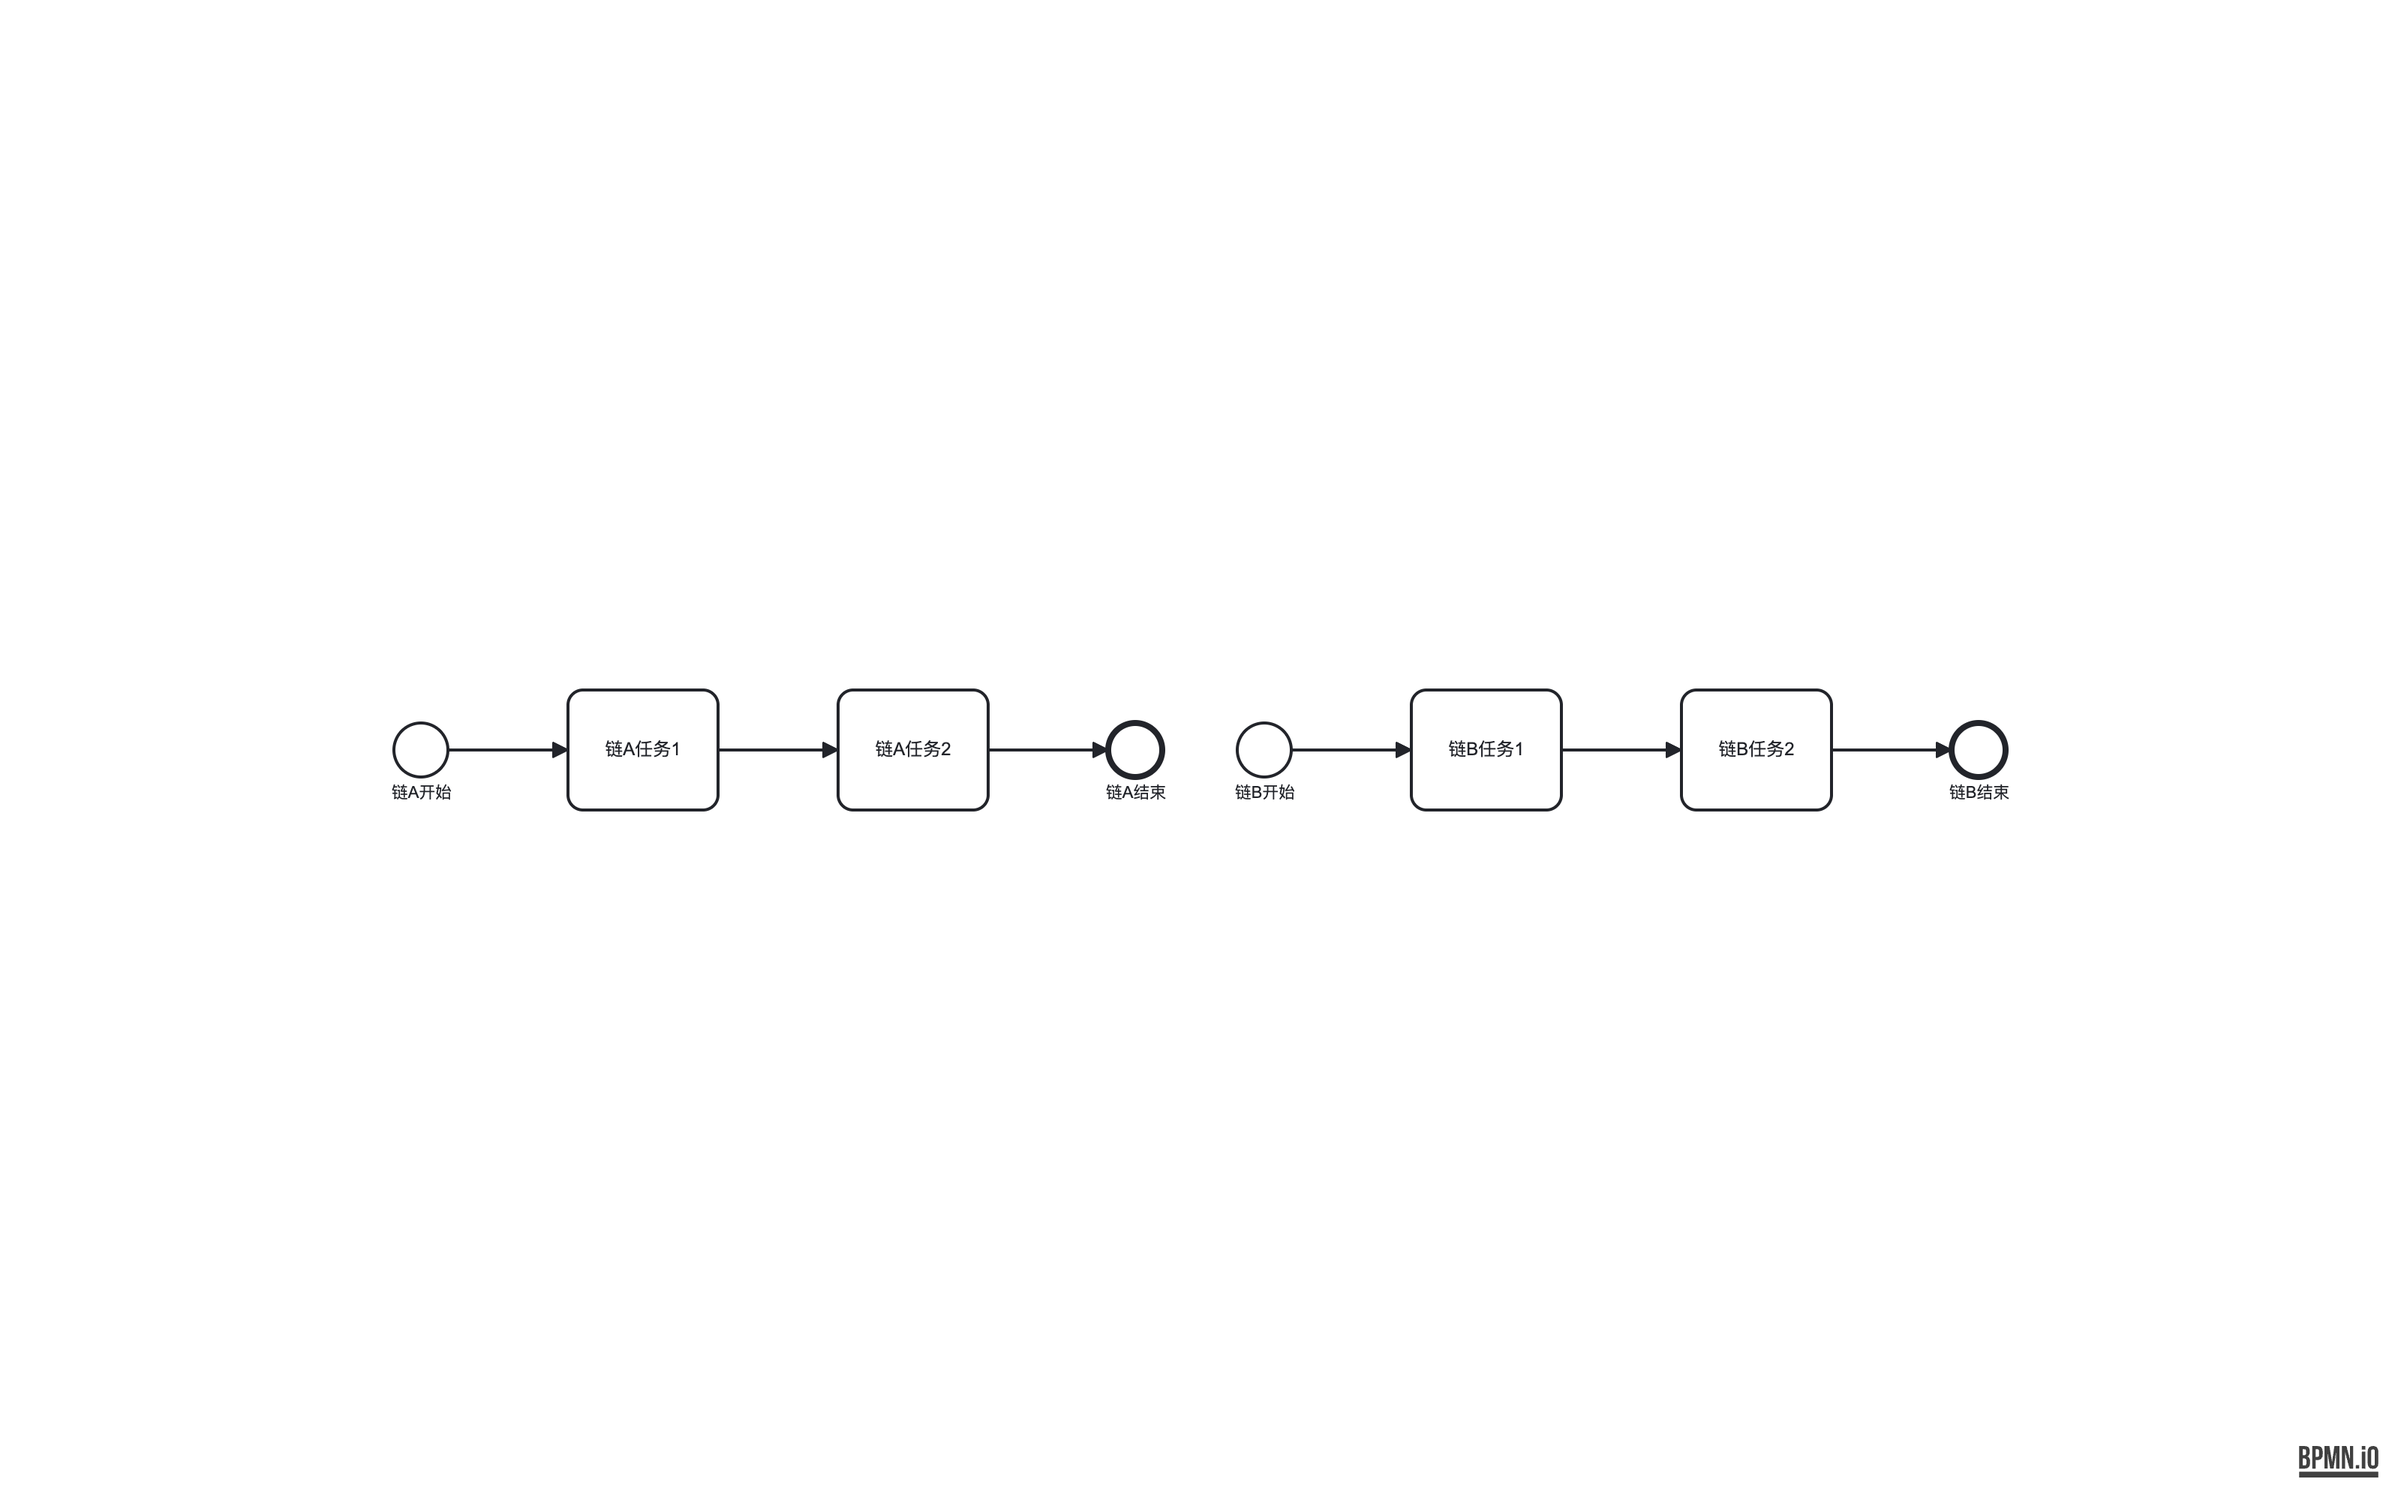
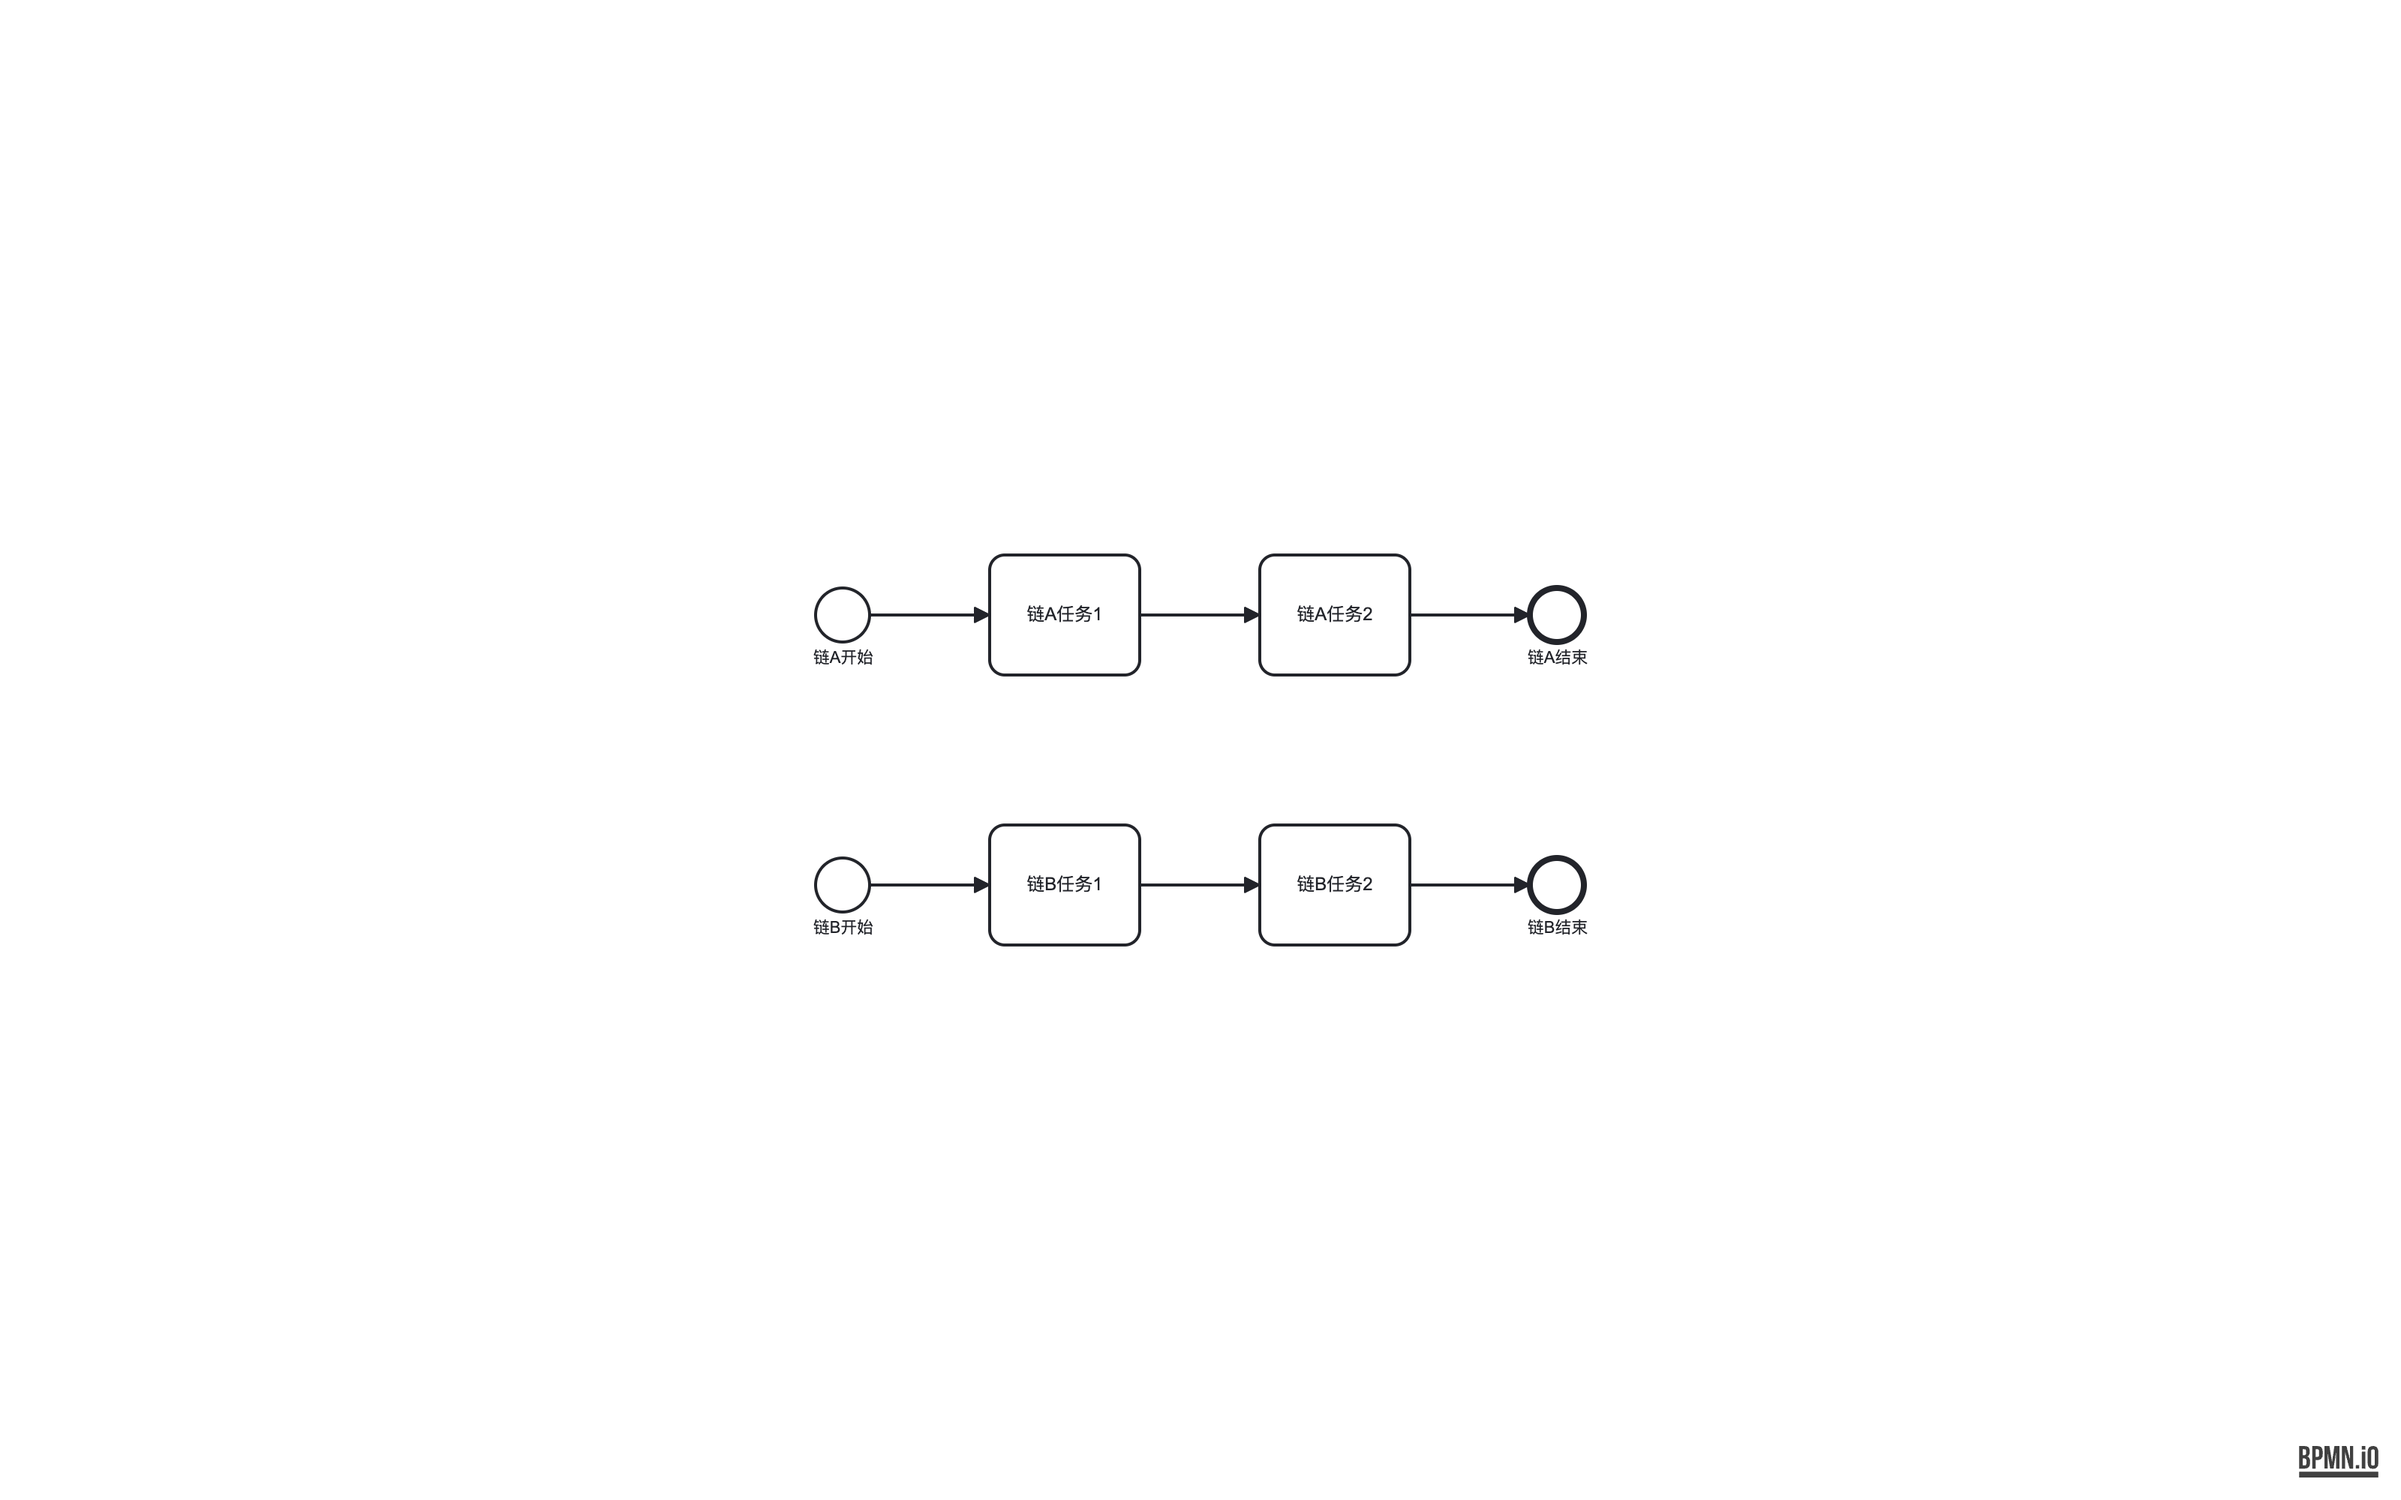
feat(compactor): 互不相连子图按网格重排——93 双链并排 8:1 → 堆叠 1.9:1
触发门槛与 F4 同一把尺：用 (W+124)/(H+64) 估计含 pool 框的画布宽高比
（20/93 上实测与 evaluator 完全吻合），> 6 才动——20 的 5+1 事件子流程网格
本来就及格，不重排。列数 row-major 试 1..n 取宽高比最接近 2:1；收不窄
（< 80%）就放弃。分量之间无边，纯平移无路由副作用。

93：F4 8.03→1.90；F13 0.57→0.72（堆叠空隙的固有代价，阈值内）。PNG 目检：
两条链左对齐上下排、label 无遮挡。

diff --git a/src/stages/compactor.ts b/src/stages/compactor.ts
@@ -50,6 +50,14 @@ const LONG_CHAIN_ROW_GAP = HANDLER_VERTICAL_GAP + 180;
 const LONG_CHAIN_WRAP_ASPECT = 6;
 const LONG_CHAIN_TARGET_ASPECT = 4;
 const LONG_CHAIN_MIN_ROW_NODES = 3;
+// 互不连通的子图堆叠的行距：分量之间没有边，不需要走廊，比折行的 ROW_GAP 小；
+// 但要盖过 event 底部 label（~18px）+ 呼吸位。
+const COMPONENT_STACK_GAP = 100;
+// 触发判定用的画布 padding 估计：compactor 只有节点 bbox，F4 量的是含 pool 框的画布。
+// 124/64 在 20/93 上实测与 evaluator 的 F4 完全吻合（name stripe + pad + label 预留），
+// 用它近似「evaluator 视角的宽高比」，避免把本来就及格的 fixture 拖进来重排。
+const STACK_PAD_W = 124;
+const STACK_PAD_H = 64;
 // 纯像素宽高比对短链失真：单行链高度只有一个节点行（~80px），4 节点链 600/80=7.5 也会
 // 触发折行，把 01-simple-process 这种最基础直链折出 back edge（F1/F3 回归 + 05/06 E2）。
 // 折行只为治「长链」（feedback Problem 2 的 ~20 节点链）；7 取自 09-multiinstance（需要折）
@@ -136,6 +144,17 @@ export function compact(input: CompactInput): CompactOutput {
     const beforeRight = maxRight(input.nodes);
     const afterRight = maxRight(wrapped);
     return { nodes: wrapped, trimmedPx: Math.max(cumulativeShift, beforeRight - afterRight, 1) };
+  }
+
+  // 互不连通的子图（93 的两条独立链并排）：linearOrder 判链失败，但按分量纵向堆叠
+  // 就能把单行 8:1 压回正常比例。分量之间无边，堆叠是纯平移，无路由副作用。
+  const stacked = input.wrapLinearChain
+    ? stackDisconnectedComponents(compactedOut, input.edges ?? [])
+    : null;
+  if (stacked) {
+    const beforeRight = maxRight(input.nodes);
+    const afterRight = maxRight(stacked);
+    return { nodes: stacked, trimmedPx: Math.max(cumulativeShift, beforeRight - afterRight, 1) };
   }
 
   if (shifts.size === 0 && !reordered.changed) return { nodes: new Map(input.nodes), trimmedPx: 0 };
@@ -309,4 +328,125 @@ function linearOrder(
 
 function maxRight(nodes: Map<string, NodeBox>): number {
   return Math.max(...Array.from(nodes.values()).map(b => b.x + b.w), 0);
+}
+
+/**
+ * 互不相连的子图网格化重排：93 的两条独立链被 ELK 并排成一行（8:1）；20 的 6 个
+ * 事件子流程本身无边（edges=0，全是单点分量）。按「当前 minX 顺序 = 阅读顺序」
+ * row-major 填网格，列数取使宽高比最接近 2:1 的值。返回 null = 不动。
+ * 触发：分量 ≥ 2、含 pool 框估计的 aspect > 6（与 F4 同一把尺）、结果明显收窄。
+ */
+function stackDisconnectedComponents(
+  nodes: Map<string, NodeBox>,
+  edges: Array<{ source: string; target: string }>,
+): Map<string, NodeBox> | null {
+  const parent = new Map<string, string>();
+  const find = (x: string): string => {
+    let r = x;
+    while (parent.get(r) !== r) r = parent.get(r)!;
+    parent.set(x, r);
+    return r;
+  };
+  for (const id of nodes.keys()) parent.set(id, id);
+  for (const e of edges) {
+    if (!nodes.has(e.source) || !nodes.has(e.target)) continue;
+    parent.set(find(e.source), find(e.target));
+  }
+  const comps = new Map<string, string[]>();
+  for (const id of nodes.keys()) {
+    const r = find(id);
+    if (!comps.has(r)) comps.set(r, []);
+    comps.get(r)!.push(id);
+  }
+  if (comps.size < 2) return null;
+
+  const boxes = Array.from(nodes.values());
+  const singleW = Math.max(...boxes.map(b => b.x + b.w)) - Math.min(...boxes.map(b => b.x));
+  const singleH = Math.max(...boxes.map(b => b.y + b.h)) - Math.min(...boxes.map(b => b.y));
+  if (singleH <= 0) return null;
+  // 与 evaluator F4 同一把尺（含 pool 框估计）——20 的 5+1 网格本来就及格，不动
+  if ((singleW + STACK_PAD_W) / (singleH + STACK_PAD_H) <= LONG_CHAIN_WRAP_ASPECT) return null;
+
+  // 阅读顺序 = 当前的 X 顺序（ELK 并排分量按输入序排开）
+  const groups = Array.from(comps.values()).map(ids => {
+    const bs = ids.map(id => nodes.get(id)!);
+    return {
+      ids,
+      minX: Math.min(...bs.map(b => b.x)),
+      minY: Math.min(...bs.map(b => b.y)),
+      maxX: Math.max(...bs.map(b => b.x + b.w)),
+      maxY: Math.max(...bs.map(b => b.y + b.h)),
+    };
+  }).sort((a, b) => a.minX - b.minX);
+
+  const baseX = Math.min(...boxes.map(b => b.x));
+  const baseY = Math.min(...boxes.map(b => b.y));
+
+  // 网格列数：row-major 填充，取宽高比最接近 2:1 的列数（1 列 = 纯纵向堆叠）
+  let best: { cols: number; w: number; h: number } | null = null;
+  for (let cols = 1; cols <= groups.length; cols++) {
+    const rows = Math.ceil(groups.length / cols);
+    let gridW = 0;
+    for (let c = 0; c < cols; c++) {
+      let colW = 0;
+      for (let i = c; i < groups.length; i += cols) {
+        colW = Math.max(colW, groups[i]!.maxX - groups[i]!.minX);
+      }
+      gridW += colW;
+    }
+    gridW += (cols - 1) * NORMAL_LAYER_GAP;
+    let gridH = 0;
+    for (let r = 0; r < rows; r++) {
+      let rowH = 0;
+      for (let i = r * cols; i < Math.min((r + 1) * cols, groups.length); i++) {
+        rowH = Math.max(rowH, groups[i]!.maxY - groups[i]!.minY);
+      }
+      gridH += rowH;
+    }
+    gridH += (rows - 1) * COMPONENT_STACK_GAP;
+    if (gridW >= singleW * 0.8) continue; // 收不窄的列数没意义
+    const aspect = gridW / gridH;
+    const score = Math.abs(Math.log(aspect / 2));
+    if (!best || score < Math.abs(Math.log(best.w / best.h / 2))) best = { cols, w: gridW, h: gridH };
+  }
+  if (!best) return null;
+
+  const out = new Map(nodes);
+  const colX: number[] = [];
+  {
+    let x = baseX;
+    for (let c = 0; c < best.cols; c++) {
+      colX.push(x);
+      let colW = 0;
+      for (let i = c; i < groups.length; i += best.cols) {
+        colW = Math.max(colW, groups[i]!.maxX - groups[i]!.minX);
+      }
+      x += colW + NORMAL_LAYER_GAP;
+    }
+  }
+  const rows = Math.ceil(groups.length / best.cols);
+  const rowY: number[] = [];
+  {
+    let y = baseY;
+    for (let r = 0; r < rows; r++) {
+      rowY.push(y);
+      let rowH = 0;
+      for (let i = r * best.cols; i < Math.min((r + 1) * best.cols, groups.length); i++) {
+        rowH = Math.max(rowH, groups[i]!.maxY - groups[i]!.minY);
+      }
+      y += rowH + COMPONENT_STACK_GAP;
+    }
+  }
+  for (let i = 0; i < groups.length; i++) {
+    const g = groups[i]!;
+    const r = Math.floor(i / best.cols);
+    const c = i % best.cols;
+    const dx = colX[c]! - g.minX;
+    const dy = rowY[r]! - g.minY;
+    for (const id of g.ids) {
+      const b = nodes.get(id)!;
+      out.set(id, { x: b.x + dx, y: b.y + dy, w: b.w, h: b.h });
+    }
+  }
+  return out;
 }
